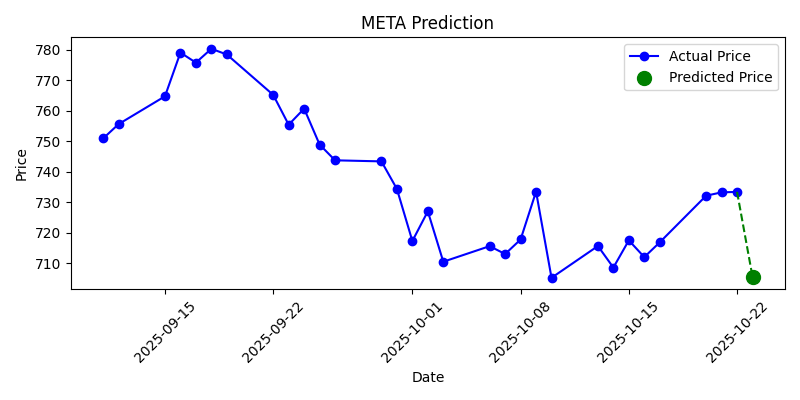
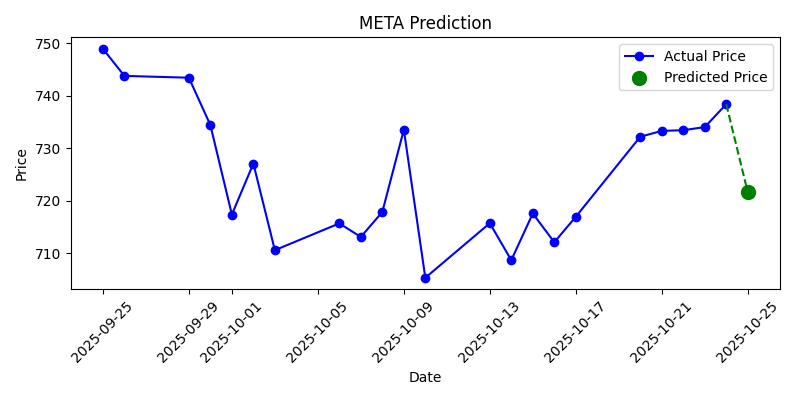
Added accuracy calculation with 120-day prediction window

diff --git a/templates/index.html b/templates/index.html
@@ -19,9 +19,40 @@
         {% if prediction %}
         <div class="result-card">
             <h2>Predicted Price for {{ symbol }}: ₹{{ prediction }}</h2>
+            
+            {% if accuracy %}
+            <div style="background: #f0f8ff; padding: 15px; border-radius: 10px; margin: 15px 0; border-left: 4px solid #2196F3;">
+                <p style="margin: 0; font-size: 1.1rem; color: #333;">
+                    <strong>Model Accuracy:</strong> 
+                    {% if accuracy >= 80 %}
+                    <span style="font-size: 1.3rem; font-weight: 600; color: #4CAF50;">
+                        {{ accuracy }}%
+                    </span>
+                    {% elif accuracy >= 60 %}
+                    <span style="font-size: 1.3rem; font-weight: 600; color: #FF9800;">
+                        {{ accuracy }}%
+                    </span>
+                    {% else %}
+                    <span style="font-size: 1.3rem; font-weight: 600; color: #F44336;">
+                        {{ accuracy }}%
+                    </span>
+                    {% endif %}
+                </p>
+                <p style="margin: 5px 0 0 0; font-size: 0.9rem; color: #666;">
+                    Based on 30-day backtesting
+                </p>
+            </div>
+            {% endif %}
+            
             <p style="color: green; font-weight: 600; font-size: 1.2rem;">{{ suggestion }}</p>
             <p style="color: #333; font-size: 1rem;">{{ reasoning }}</p>
             <img src="{{ url_for('static', filename=symbol + '_plot.png') }}" alt="Stock Plot">
+        </div>
+        {% endif %}
+
+        {% if error %}
+        <div class="result-card" style="background: #ffebee;">
+            <p style="color: #c62828; font-weight: 600;">Error: {{ error }}</p>
         </div>
         {% endif %}
     </div>

diff --git a/model.py b/model.py
@@ -12,7 +12,7 @@ import yfinance as yf
 API_KEY = 'A1AP3WSVCIITGGT8'
 
 # ---------------- Fetch Stock Data Safely ----------------
-def fetch_stock_data(symbol):
+def fetch_stock_data(symbol, period="1y"):  # Changed from "6mo" to "1y"
     """
     Fetch closing prices for a stock symbol.
     - Alpha Vantage for US stocks
@@ -22,17 +22,17 @@ def fetch_stock_data(symbol):
     # Try Alpha Vantage first (US stocks)
     try:
         ts = TimeSeries(key=API_KEY, output_format='pandas')
-        data, _ = ts.get_daily(symbol=symbol, outputsize='compact')
+        data, _ = ts.get_daily(symbol=symbol, outputsize='full')
         if data.empty or '4. close' not in data.columns:
             raise ValueError("Alpha Vantage returned empty/invalid data")
         close = data['4. close'].sort_index()
         return close
     except Exception:
         # Fallback to Yahoo Finance
-        data = yf.download(symbol, period="1mo", interval="1d")
+        data = yf.download(symbol, period=period, interval="1d", progress=False, auto_adjust=True)
         if data.empty or 'Close' not in data.columns:
             raise ValueError(f"No valid data returned for symbol {symbol}. Check symbol spelling or internet connection.")
-        close = data['Close'].sort_index()
+        close = data['Close'].squeeze().sort_index()
         return close
 
 # ---------------- Predict Stock Price ----------------
@@ -41,19 +41,19 @@ def predict_stock_price(symbol):
     Returns:
     - predicted_price: next day predicted price
     - last_close: last available closing price
-    - data_recent: last 30 days of actual prices (pandas Series)
+    - data_recent: last 120 days of actual prices (pandas Series)
     """
     data = fetch_stock_data(symbol)
-    last_close = data[-1]
-
-    # Linear regression on last 30 days
-    data_recent = data[-30:]
-    X = np.arange(len(data_recent)).reshape(-1,1)
-    y = data_recent.values.reshape(-1,1)
+    last_close = data.iloc[-1]
+    
+    # Linear regression on last 120 days
+    data_recent = data[-120:]
+    X = np.arange(len(data_recent)).reshape(-1, 1)
+    y = data_recent.values.reshape(-1, 1)
     model = LinearRegression()
     model.fit(X, y)
     predicted = model.predict(np.array([[len(data_recent)]]))[0][0]
-
+    
     return round(predicted, 2), last_close, data_recent
 
 # ---------------- Buy/Hold/Avoid Suggestion ----------------
@@ -63,6 +63,12 @@ def get_buy_suggestion(last_close, predicted):
     - suggestion: Buy/Hold/Avoid string
     - reasoning: Explanation string
     """
+    # Convert last_close to scalar if it's a Series
+    if isinstance(last_close, pd.Series):
+        last_close = last_close.item()
+    else:
+        last_close = float(last_close)
+    
     change_percent = ((predicted - last_close) / last_close) * 100
     
     if change_percent >= 2:
@@ -80,21 +86,98 @@ def get_buy_suggestion(last_close, predicted):
 # ---------------- Save Trend Plot ----------------
 def save_plot(symbol, predicted, data_recent, path):
     """
-    Saves a plot showing last 30 days of prices and predicted next day
+    Saves a plot showing last 120 days of prices and predicted next day
     """
-    plt.figure(figsize=(8,4))
-    plt.plot(data_recent.index, data_recent.values, marker='o', label='Actual Price', color='blue')
-
+    plt.figure(figsize=(12, 6))
+    plt.plot(data_recent.index, data_recent.values, marker='o', markersize=3, label='Actual Price', color='blue', linewidth=2)
+    
     # Predicted next day
     next_day = data_recent.index[-1] + pd.Timedelta(days=1)
-    plt.scatter(next_day, predicted, color='green', s=100, label='Predicted Price')
-    plt.plot([data_recent.index[-1], next_day], [data_recent.values[-1], predicted], linestyle='--', color='green')
-
-    plt.title(f"{symbol} Prediction")
-    plt.xlabel("Date")
-    plt.ylabel("Price")
+    plt.scatter(next_day, predicted, color='green', s=150, label='Predicted Price', zorder=5)
+    plt.plot([data_recent.index[-1], next_day], [data_recent.values[-1], predicted], linestyle='--', color='green', linewidth=2)
+    
+    plt.title(f"{symbol} - 120 Day Price Trend & Prediction", fontsize=16, fontweight='bold')
+    plt.xlabel("Date", fontsize=12)
+    plt.ylabel("Price ($)", fontsize=12)
     plt.xticks(rotation=45)
-    plt.legend()
+    plt.legend(fontsize=10)
+    plt.grid(True, alpha=0.3)
     plt.tight_layout()
-    plt.savefig(path)
+    plt.savefig(path, dpi=100)
     plt.close()
+
+# ---------------- Calculate accuracy ----------------
+def calculate_accuracy(symbol, days_back=30):
+    """
+    Backtest the model by predicting past days and comparing with actual prices.
+    Returns accuracy percentage.
+    """
+    try:
+        print(f"   🔍 Starting accuracy calculation for {symbol}...")
+        
+        # Fetch data for backtesting - 1 year to ensure we have enough
+        data = fetch_stock_data(symbol, period="1y")
+        
+        print(f"   📊 Fetched {len(data)} days of data for backtesting")
+        print(f"   📅 Date range: {data.index[0]} to {data.index[-1]}")
+        
+        if len(data) < 150:  # Need enough data for backtesting (120 + 30 buffer)
+            print(f"   ⚠  Not enough data ({len(data)} days). Need at least 150 days.")
+            return None
+        
+        predictions = []
+        actuals = []
+        
+        # Test on last 'days_back' days
+        test_days = min(days_back, len(data) - 120)
+        print(f"   🧪 Will test {test_days} predictions")
+        
+        for i in range(test_days, 0, -1):
+            # Use data up to 'i' days ago
+            historical_data = data[:-i]
+            
+            # Get actual price - convert to float properly
+            actual_price = data.iloc[-i]
+            if isinstance(actual_price, pd.Series):
+                actual_price = float(actual_price.item())
+            else:
+                actual_price = float(actual_price)
+            
+            # Use last 120 days of historical data for prediction
+            data_recent = historical_data[-120:]
+            
+            if len(data_recent) < 120:
+                continue
+                
+            X = np.arange(len(data_recent)).reshape(-1, 1)
+            y = data_recent.values.reshape(-1, 1)
+            
+            model = LinearRegression()
+            model.fit(X, y)
+            
+            predicted = model.predict(np.array([[len(data_recent)]]))[0][0]
+            
+            predictions.append(float(predicted))
+            actuals.append(actual_price)
+        
+        print(f"   📈 Total successful predictions: {len(predictions)}")
+        
+        # Calculate accuracy using MAPE (Mean Absolute Percentage Error)
+        if len(predictions) == 0:
+            print(f"   ⚠  No predictions made")
+            return None
+            
+        errors = [abs((actual - pred) / actual) * 100 for actual, pred in zip(actuals, predictions)]
+        mape = np.mean(errors)
+        accuracy = 100 - mape  # Convert error to accuracy
+        
+        calculated_accuracy = max(0, min(100, round(accuracy, 2)))  # Ensure between 0-100
+        print(f"   ✅ MAPE: {mape:.2f}%, Final Accuracy: {calculated_accuracy}%")
+        
+        return calculated_accuracy
+        
+    except Exception as e:
+        print(f"   ❌ Error calculating accuracy: {e}")
+        import traceback
+        traceback.print_exc()
+        return None

diff --git a/app.py b/app.py
@@ -1,48 +1,62 @@
 from flask import Flask, render_template, request
-from model import predict_stock_price, get_buy_suggestion, save_plot
+from model import predict_stock_price, get_buy_suggestion, save_plot, calculate_accuracy
+import os
 
 app = Flask(__name__)
 
+# Ensure static folder exists for plots
+if not os.path.exists("static"):
+    os.makedirs("static")
+
 @app.route('/', methods=['GET', 'POST'])
 def home():
+    prediction = None
+    symbol = None
+    suggestion = None
+    reasoning = None
+    plot_path = None
+    accuracy = None
+
     if request.method == 'POST':
-        symbol = request.form['symbol'].upper()
-        predicted_price, last_close, data_recent = predict_stock_price(symbol)
-        suggestion, reasoning = get_buy_suggestion(last_close, predicted_price)
+        symbol = request.form['symbol'].upper().strip()
+        try:
+            # Get prediction
+            prediction, last_close, data_recent = predict_stock_price(symbol)
+            print(f"✅ Prediction successful: {prediction}")
+            
+            # Get buy/sell suggestion
+            suggestion, reasoning = get_buy_suggestion(last_close, prediction)
+            print(f"✅ Suggestion successful: {suggestion}")
+            
+            # Calculate model accuracy
+            print(f"🔍 Calculating accuracy for {symbol}...")
+            accuracy = calculate_accuracy(symbol, days_back=30)
+            print(f"✅ Accuracy calculated: {accuracy}%")
 
-        # Save plot for frontend
-        plot_path = f"static/{symbol}_plot.png"
-        save_plot(symbol, predicted_price, data_recent, plot_path)
+            # Save plot for frontend
+            plot_path = f"static/{symbol}_plot.png"
+            save_plot(symbol, prediction, data_recent, plot_path)
+            print(f"✅ Plot saved")
 
-        return render_template(
-            'index.html',
-            prediction=predicted_price,
-            symbol=symbol,
-            suggestion=suggestion,
-            reasoning=reasoning
-        )
+        except Exception as e:
+            print(f"❌ Error occurred: {str(e)}")
+            import traceback
+            traceback.print_exc()
+            prediction = f"Error: {str(e)}"
+            suggestion = ""
+            reasoning = ""
+            plot_path = None
+            accuracy = None
 
-    return render_template('index.html')
+    return render_template(
+        'index.html',
+        prediction=prediction,
+        symbol=symbol,
+        suggestion=suggestion,
+        reasoning=reasoning,
+        plot_path=plot_path,
+        accuracy=accuracy
+    )
 
 if __name__ == '__main__':
     app.run(debug=True)
-
-
-
-
-
-'''
-
-Before presenting:
-
-Open your terminal → activate your virtual environment:
-
-cd ~/Desktop/stock-market-predictor
-source venv/bin/activate
-python -m flask run --host=0.0.0.0 --port=8080
-
-
-Open browser at:
-
-http://localhost:8080/
-'''
